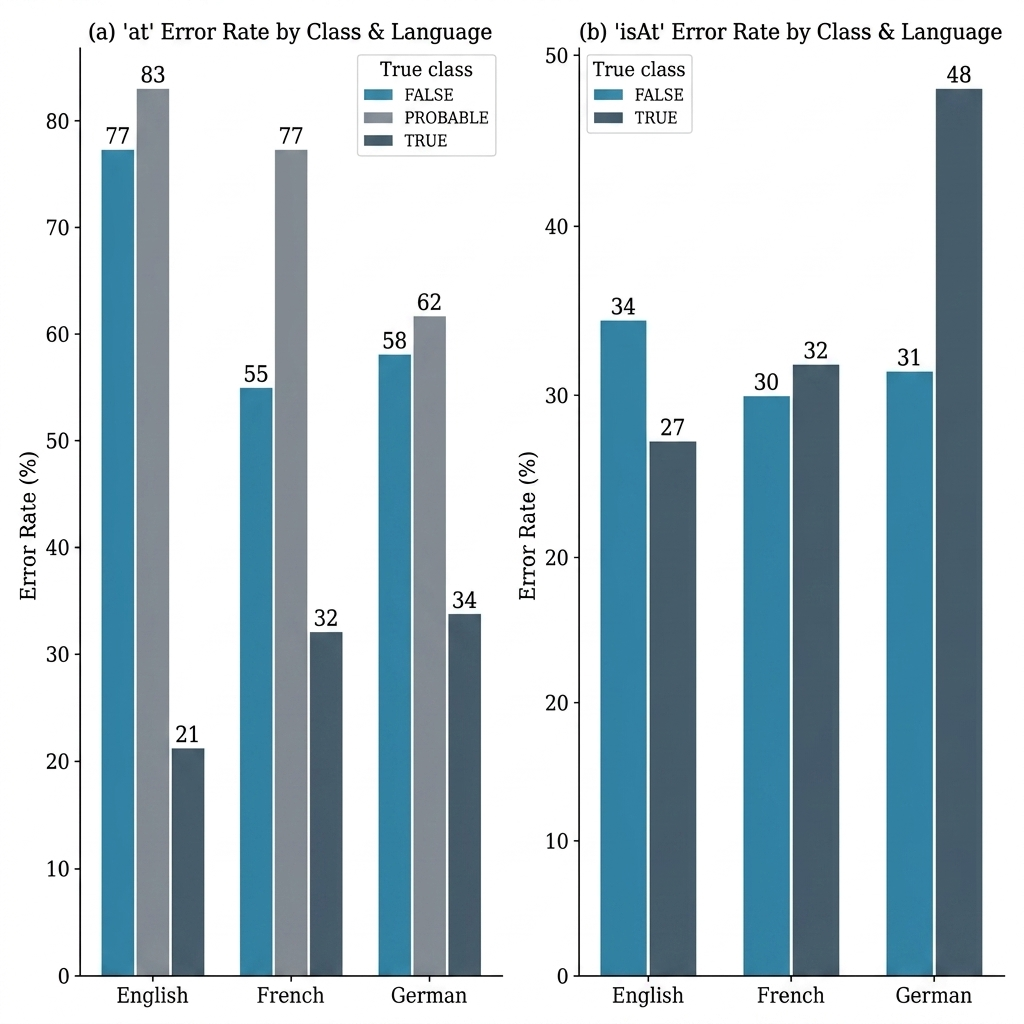
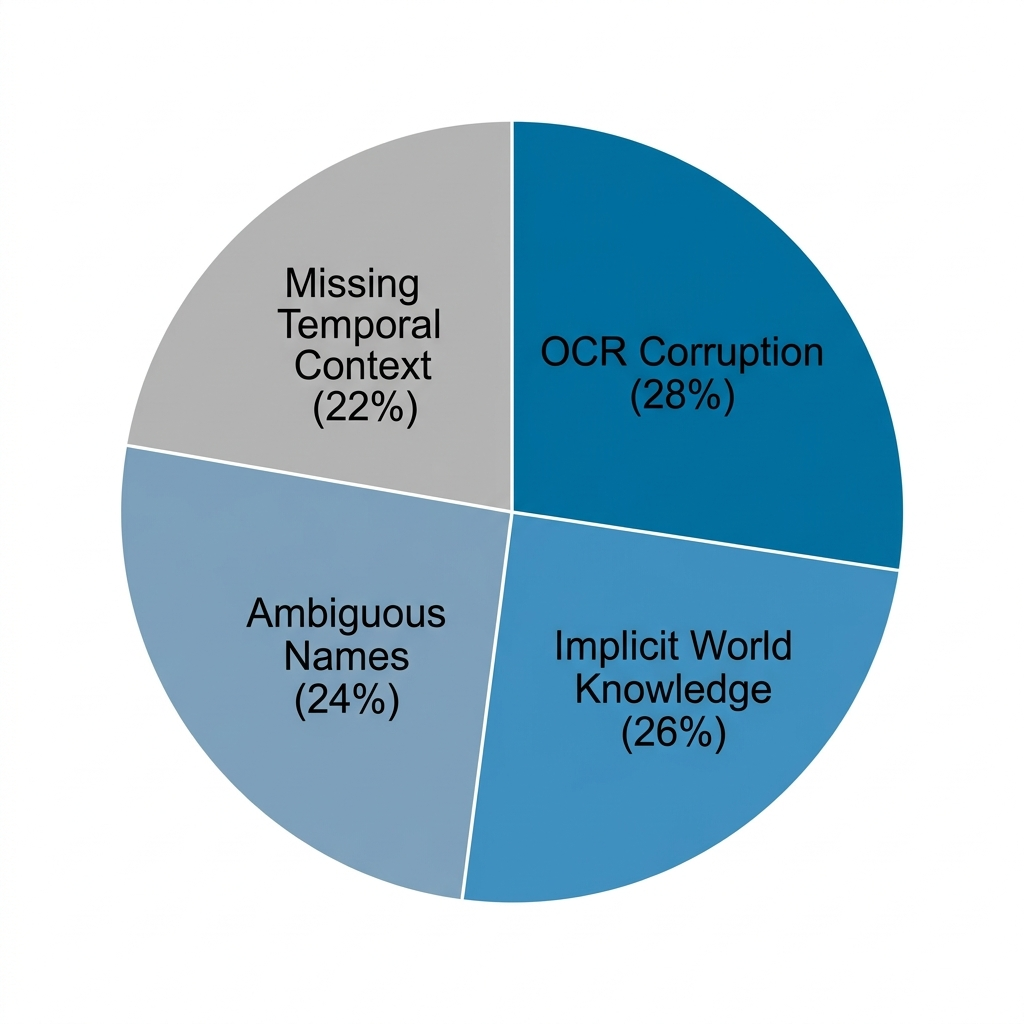
v27: Final correction pass - fixed references, OCR E8 item, RLAE thresholds, Alg 1, Fig 6

diff --git a/paper/main.tex b/paper/main.tex
@@ -93,7 +93,7 @@ A persistent question in multilingual NLP is whether domain-specific models outp
 
 \subsection{Knowledge Graphs and Digital Humanities Gazetteers}
 
-Exploiting structured knowledge resources for information extraction from historical texts remains underexplored. Wikidata, with its structured biographical properties (P19 birthplace, P20 deathplace, P551 residence, P27 country of citizenship), provides a natural source of person--place facts that could directly inform relation classification. For geographical disambiguation, resources such as GeoNames (alternate spellings, administrative hierarchies) and the Getty Thesaurus of Geographic Names~(TGN; multilingual place name coverage) are highly relevant. Furthermore, the World Historical Gazetteer (WHG) offers purpose-built temporal scoping for historical place names that shift across centuries, while the Virtual International Authority File (VIAF) provides person-authority records critical for resolving entity ambiguity (e.g., distinguishing ``George Washington'' the person from the place)---a failure mode that accounts for 24\% of all errors in our system (Section~\ref{sec:error}).
+Exploiting structured knowledge resources for information extraction from historical texts remains underexplored. Wikidata, with its structured biographical properties (P19 birthplace, P20 deathplace, P551 residence, P27 country of citizenship), provides a natural source of person--place facts that could directly inform relation classification. For geographical disambiguation, resources such as GeoNames (alternate spellings, administrative hierarchies) and the Getty Thesaurus of Geographic Names~(TGN; multilingual place name coverage) are highly relevant. Furthermore, the World Historical Gazetteer (WHG) offers purpose-built temporal scoping for historical place names that shift across centuries, while the Virtual International Authority File (VIAF) provides person-authority records critical for resolving entity ambiguity (e.g., distinguishing ``George Washington'' the person from the place)---a failure mode that accounts for 24\% of all errors in our system (Section~\ref{sec:errors}).
 
 In the digital humanities community, the Pelagios/Recogito initiative~\cite{simon2017} has developed linked-open-data infrastructure specifically for historical place annotation in digitized texts, directly aligned with the challenges of the HIPE-2026 task. Similarly, the CIDOC Conceptual Reference Model (CIDOC-CRM) provides a formal ontology for cultural heritage that could constrain relation predictions based on entity type compatibility (e.g., ruling out implausible person--location associations). Despite their relevance, none of these resources have been systematically integrated into transformer-based relation extraction for historical newspapers. Our Knowledge Graph experiment (Section~\ref{sec:kg}) takes a first step in this direction by integrating Wikidata, GeoNames, and TGN.
 
@@ -264,7 +264,7 @@ While the individual components of MHIPEX---historically pre-trained transformer
 
 From a theoretical perspective, RLAE can be understood as a conditional Mixture-of-Experts~\cite{garmash2016} where the gating function is conditioned on observable metadata (language tag and relation type) rather than on learned input features. By partitioning the prediction space into more homogeneous subsets, per-group optimization reduces within-group ensemble variance without the overfitting risk of fully learned gating on small data. Importantly, RLAE operates entirely as a post-hoc procedure on saved probability tensors and requires no model retraining.
 
-The full procedure is formalized in Algorithm~\ref{alg:rlae}.
+The full procedure is formalized in Algorithm 1.
 
 \begin{figure}[t]
 \begin{small}
@@ -289,7 +289,6 @@ The full procedure is formalized in Algorithm~\ref{alg:rlae}.
 \hspace{2.8em} no gradient computation; total runtime $< 5$ seconds on CPU.
 \end{tabbing}
 \end{small}
-\label{alg:rlae}
 \end{figure}
 
 
@@ -478,13 +477,13 @@ Table~\ref{tab:rlae} reports the per-language mixing weights learned by RLAE (Eq
 \centering
 \caption{Learned RLAE parameters per language. $\beta^{(r)}_\ell$ denotes the hmBERT weight for relation $r$ in language $\ell$; $\tau^{(r)}_\ell$ denotes the corresponding optimized classification threshold. Displayed recall values are rounded to four decimal places; MR is computed from unrounded per-relation recalls. English weights are estimated on a very small sample (151 development pairs) and should be interpreted with appropriate caution until validated on additional datasets.}
 \label{tab:rlae}
-\begin{tabular}{lcccccc}
+\begin{tabular}{lccccccc}
 \toprule
-\textbf{Language} & $\beta^{(\texttt{at})}_\ell$ & $\tau^{(\texttt{at})}_\ell$ & $\beta^{(\texttt{isAt})}_\ell$ & $\tau^{(\texttt{isAt})}_\ell$ & \textbf{\texttt{at} Recall} & \textbf{\texttt{isAt} Recall} \\
+\textbf{Language} & $\beta^{(\texttt{at})}_\ell$ & $\tau_{p}^{(\texttt{at})}$ & $\tau_{t}^{(\texttt{at})}$ & $\beta^{(\texttt{isAt})}_\ell$ & $\tau^{(\texttt{isAt})}_\ell$ & \textbf{\texttt{at} Recall} & \textbf{\texttt{isAt} Recall} \\
 \midrule
-English & 0.65 & 0.28 & 0.70 & 0.30 & 0.5325 & 0.7446 \\
-French & 0.60 & 0.30 & 0.35 & 0.25 & 0.4528 & 0.6833 \\
-German & 0.60 & 0.32 & 0.30 & 0.28 & 0.4979 & 0.6366 \\
+English & 0.65 & 0.45 & 0.55 & 0.70 & 0.30 & 0.5325 & 0.7446 \\
+French & 0.60 & 0.55 & 0.55 & 0.35 & 0.25 & 0.4528 & 0.6833 \\
+German & 0.60 & 0.55 & 0.30 & 0.30 & 0.15 & 0.4979 & 0.6366 \\
 \bottomrule
 \end{tabular}
 \end{table}
@@ -661,7 +660,7 @@ We identify several limitations of the current work, each pointing to a concrete
 
 \subsubsection*{OCR-Noise Robustness (Completed)}
 
-Our error analysis attributes 28\% of failures to OCR corruption. To quantify this brittleness and test whether explicit noise augmentation provides robustness, we conducted a 2$\times$2 experiment varying whether the training data and the evaluation set were corrupted with synthetic OCR noise (word-level character substitutions: $\mathit{rn}\!\to\!m$, $l\!\to\!1$, $c\!\to\!e$, long-$s\!\to\!f$, at 8\% word probability). Note that this is a data-augmentation approach, not the contrastive/consistency training objective proposed in our research design; the contrastive variant, which would explicitly pull clean and OCR-corrupted representations together in embedding space, remains a planned extension (E2). Table~\ref{tab:ocr} reports the results.
+Our error analysis attributes 28\% of failures to OCR corruption. To quantify this brittleness and test whether explicit noise augmentation provides robustness, we conducted a 2$\times$2 experiment varying whether the training data and the evaluation set were corrupted with synthetic OCR noise (word-level character substitutions: $\mathit{rn}\!\to\!m$, $l\!\to\!1$, $c\!\to\!e$, long-$s\!\to\!f$, at 8\% word probability). Note that this is a data-augmentation approach, not the contrastive/consistency training objective proposed in our research design; the contrastive variant, which would explicitly pull clean and OCR-corrupted representations together in embedding space, remains a planned extension (E8). Table~\ref{tab:ocr} reports the results.
 
 \begin{table}[t]
 \centering
@@ -694,6 +693,8 @@ The results reveal two key findings. First, OCR corruption degrades performance 
 \textbf{E6: HIPE-2027 Participation.} We plan to participate in the HIPE-2027 shared task, submitting MHIPEX-RLAE as our official system. Participation will yield evaluation on the official held-out test set (addressing L1), access to additional annotated data from new archive collections (addressing L2), and direct competitive comparison against future systems, providing the external validation that the current sandbox-only evaluation cannot supply.
 
 \textbf{E7: Additional Knowledge Sources.} Our error analysis identifies entity ambiguity (24\% of errors) as a major failure mode. VIAF (Virtual International Authority File) provides person-authority records that directly disambiguate cases like ``George Washington'' (person vs.\ place), and should be evaluated for the \texttt{at} relation. Similarly, the World Historical Gazetteer, which is purpose-built for historical place names across periods and languages, is a natural complement to GeoNames for improving spatial recall. We plan to integrate these sources via the RAG pipeline described in E3.
+
+\textbf{E8: Contrastive OCR Training.} We plan to implement a consistency training objective that pulls clean and OCR-corrupted representations of the same document together in the embedding space. Unlike the synthetic data augmentation evaluated in Table~\ref{tab:ocr}, this explicitly regularizes the encoder to become invariant to character-level noise.
 
 %================================================================
 \section{Conclusion}